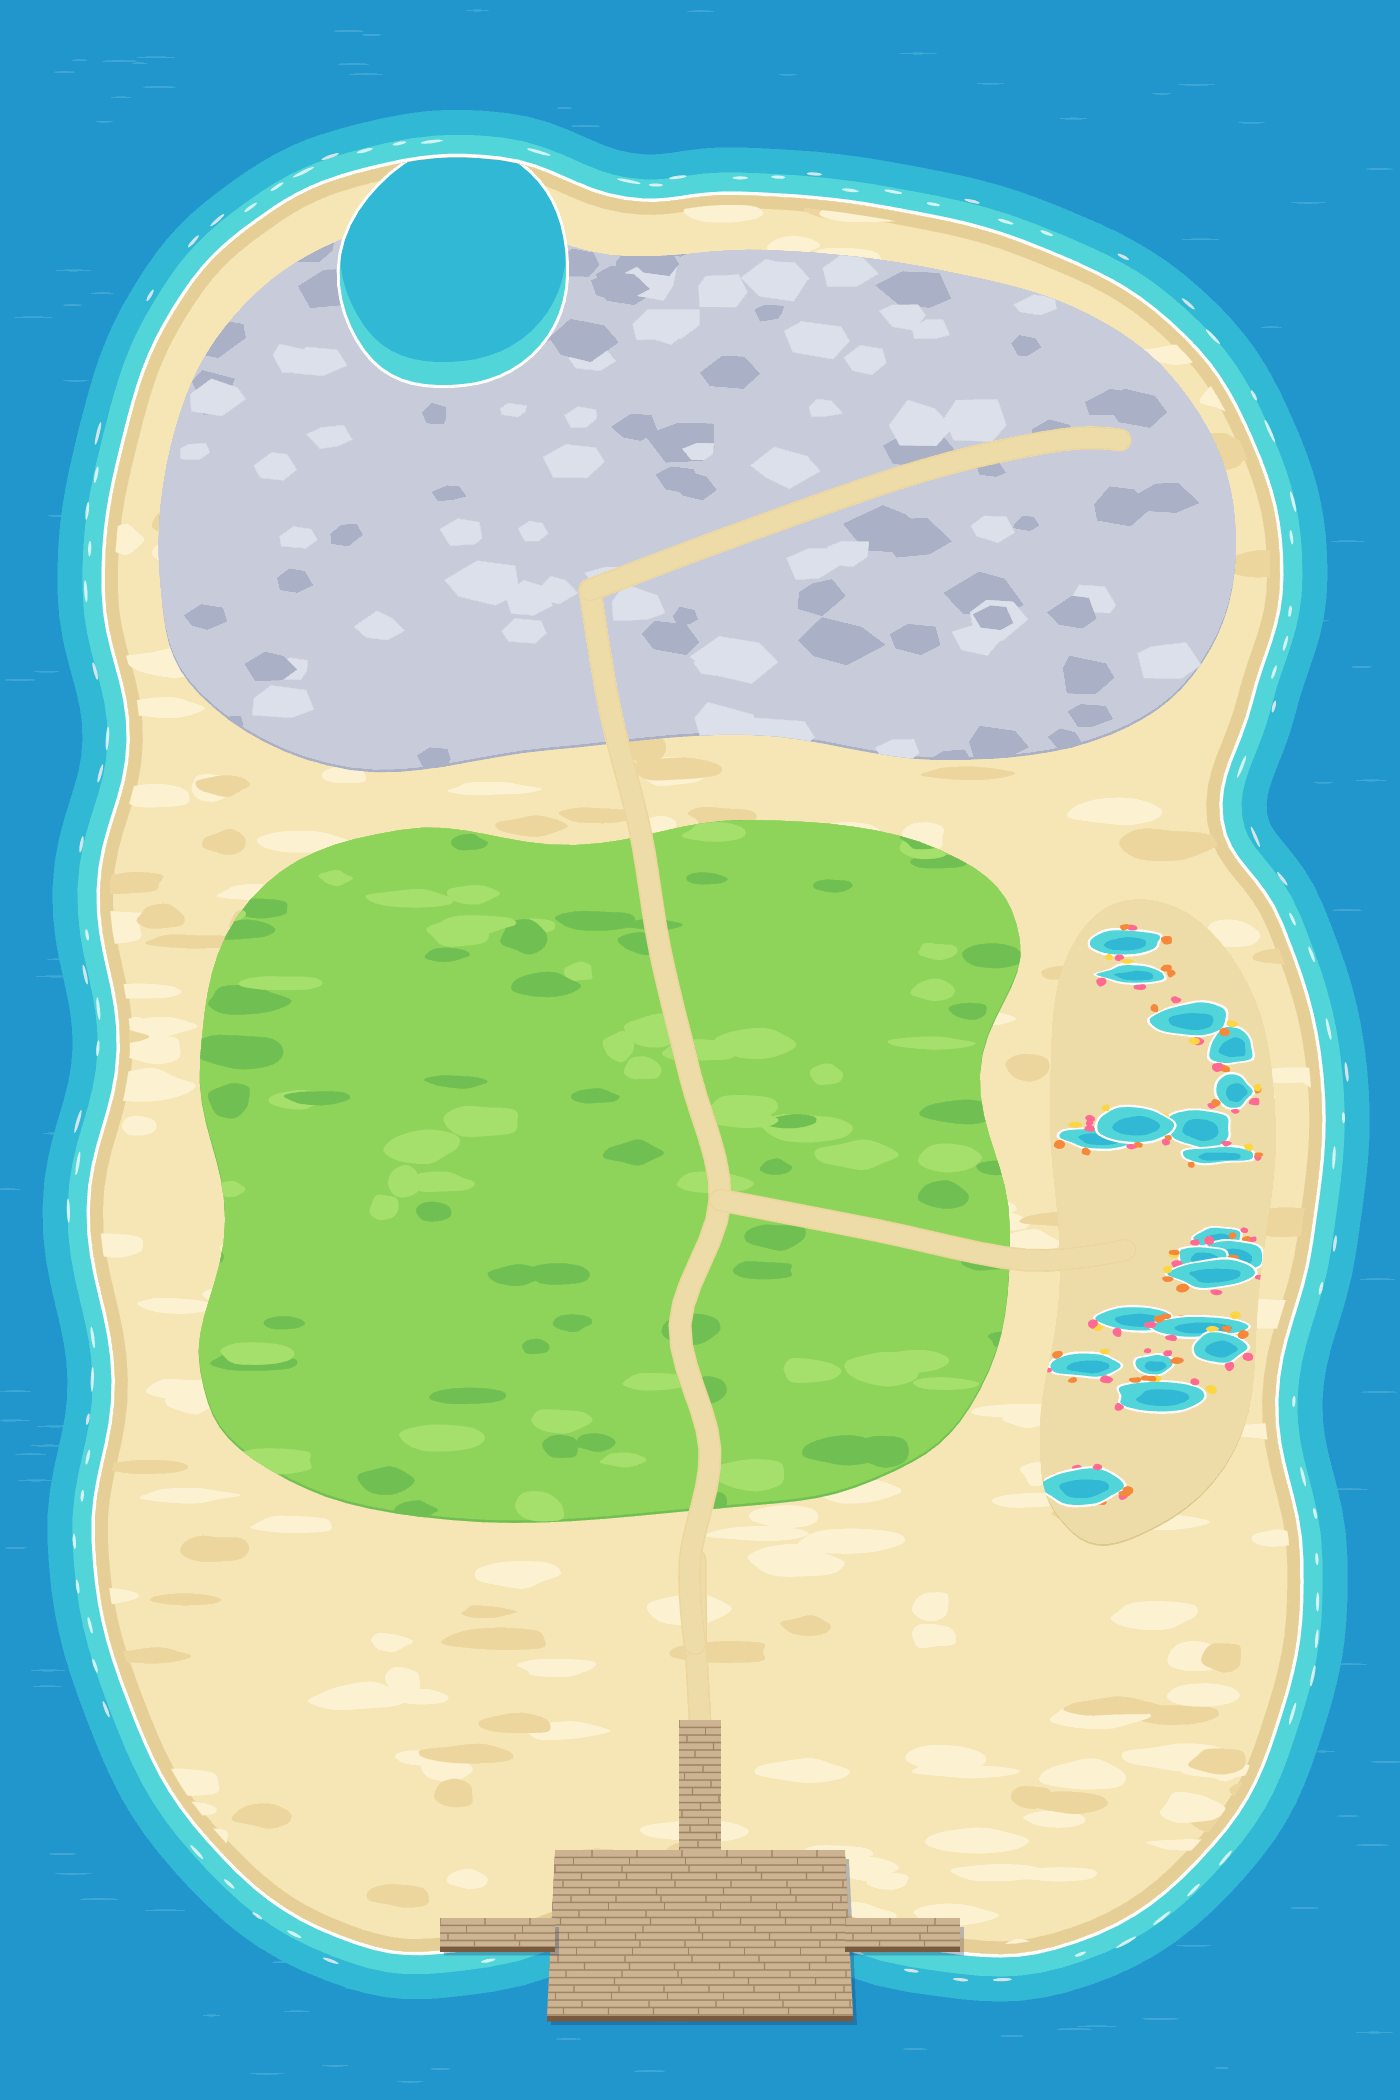
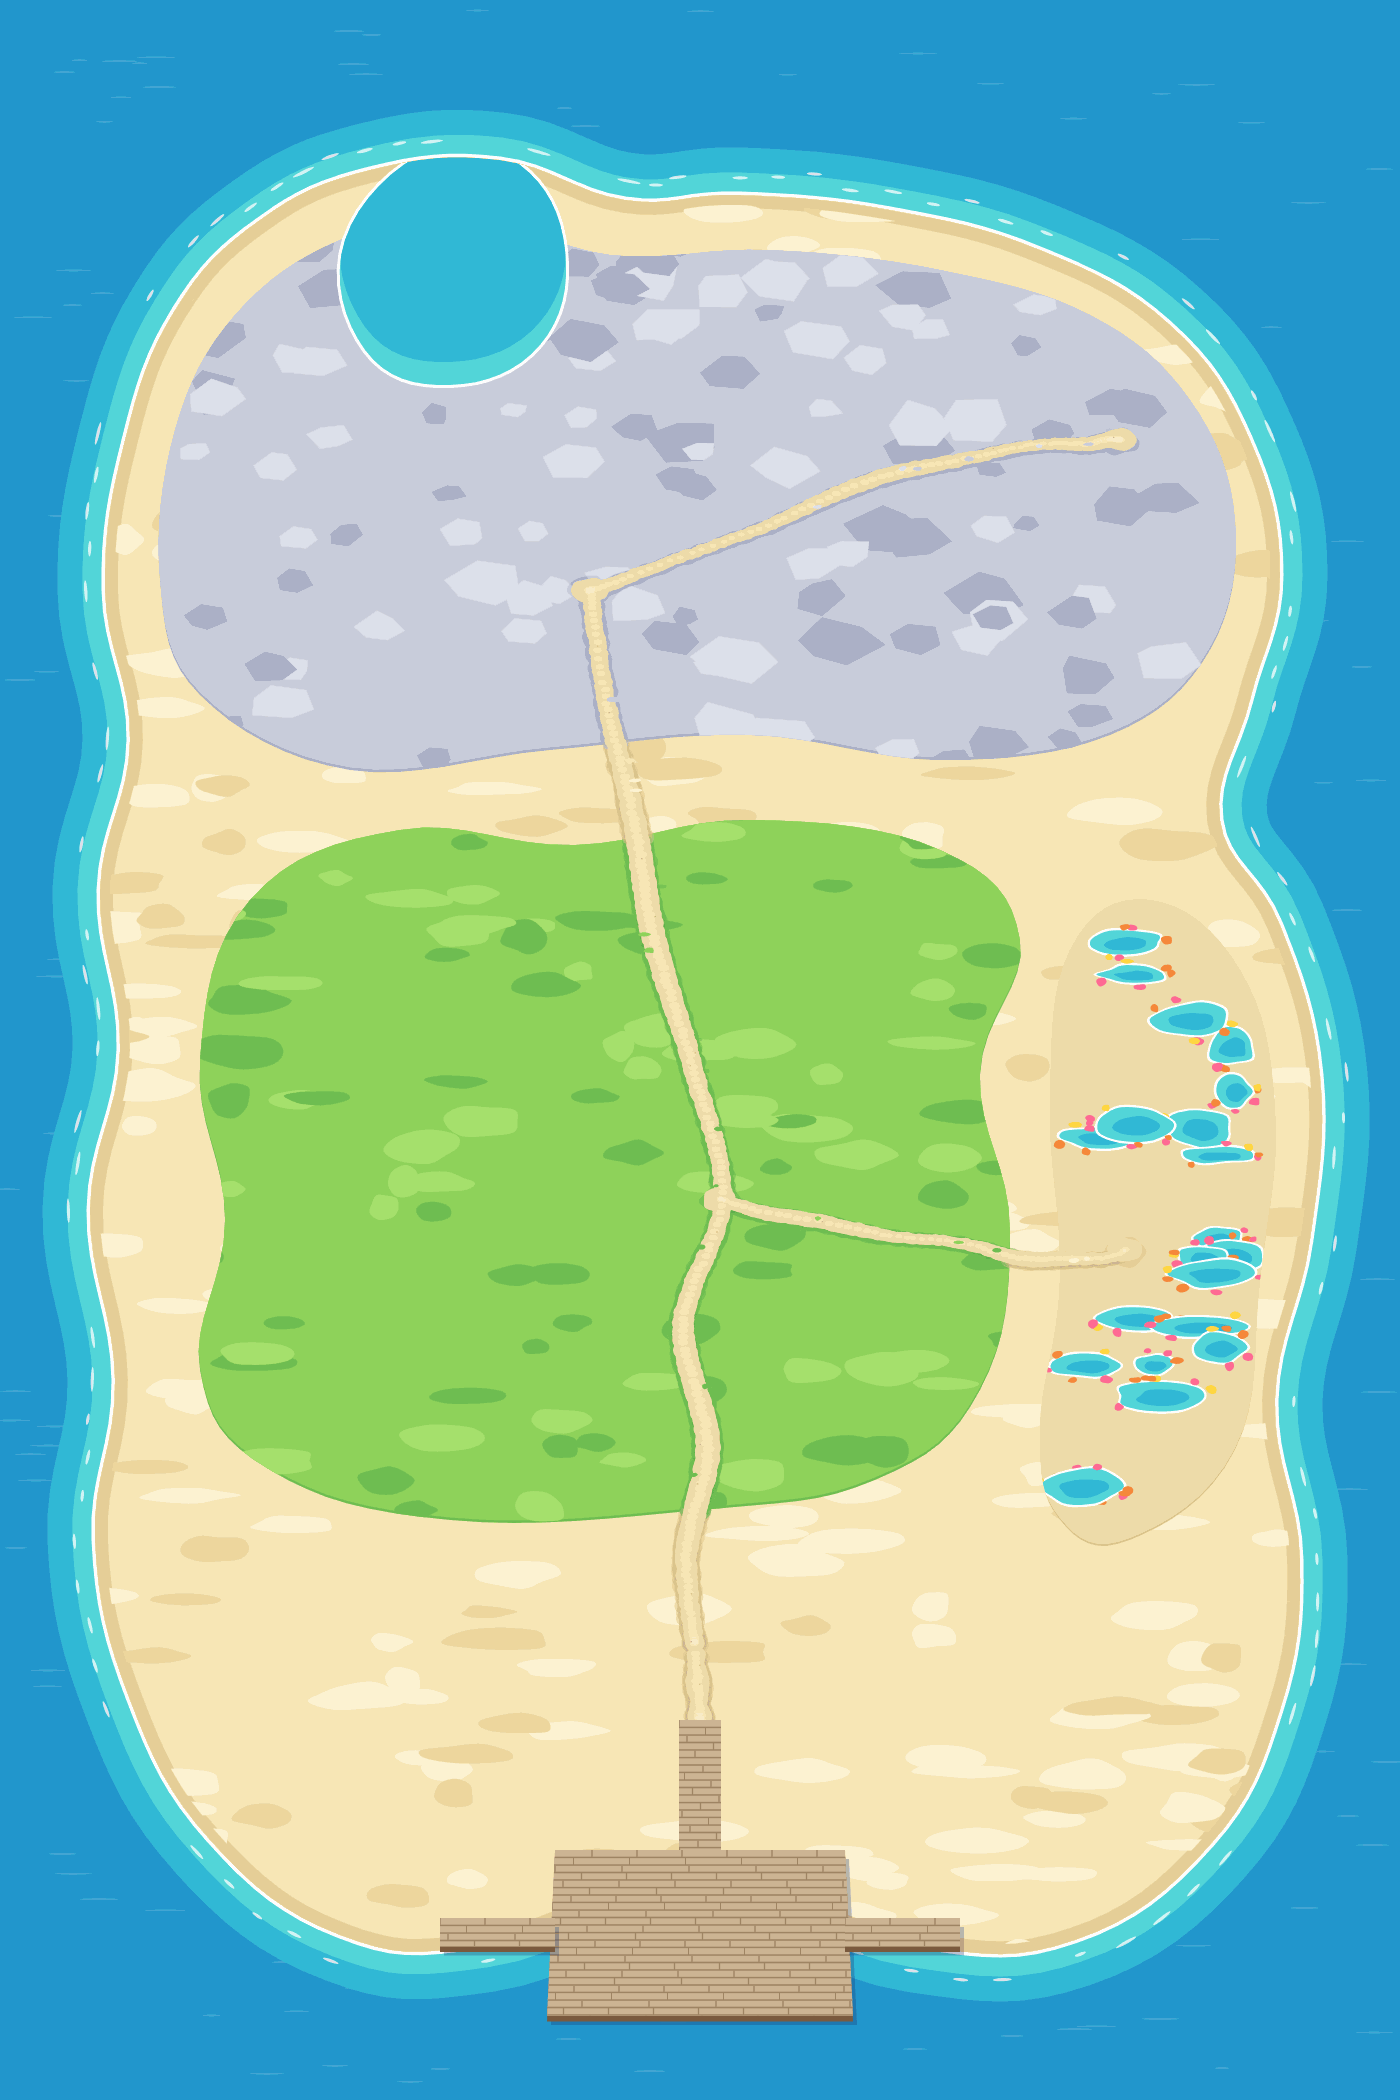
Art Director: Crab Cay's ways as trodden earth too (Leonard, AD)
Robin, 2026-11-21, asked whether Crab Cay's roads should be redone like the swamp's: "Yeah".
tools/isle.js lays the ways as close dabs that wander, no line round them, the ground creeping in,
a worn patch where they meet; the town's way and the island's are one track.
out/crab-cay: only ground.png changed, with the look pictures and look-ways.jpg (before and now).

diff --git a/Art Director/tools/isle.js b/Art Director/tools/isle.js
@@ -106,8 +106,28 @@ function paint(L) {
   if (L.inlet) { const ip = curve(L.inlet), il = poly(ip); ring(g, il, C.foam, 12); fill(g, il, C.shallow); g.save(); il(g); g.clip(); fill(g, poly(ip.map(([x, y]) => [x, y - 46])), C.sea); g.restore(); }
   if (T) { if (T.square) { const sp = curve(T.square, 0.5), sq = poly(sp), b = box(sp); fill(g, sq, C.cobbleLo); g.save(); sq(g); g.clip(); g.translate(0, -4); fill(g, sq, C.cobble); g.translate(0, 4);      // the town's square: cobbles, drawn a little heavier than at one pixel a unit so they hold
     g.strokeStyle = C.cobbleLo; g.lineWidth = 2.6; for (let y = b[1] - 20; y < b[1] + b[3] + 20; y += 22) for (let x = b[0] - 20 + (Math.round(y / 22) % 2) * 17; x < b[0] + b[2] + 20; x += 34) { g.beginPath(); g.ellipse(x + (r() - 0.5) * 5, y + (r() - 0.5) * 4, 12 + r() * 3, 7 + r() * 2, 0, 0, 7); g.stroke(); } g.restore(); }
-    for (const p of T.paths) { g.beginPath(); p.forEach((v, k) => k ? g.lineTo(v[0], v[1]) : g.moveTo(v[0], v[1])); g.lineJoin = 'round'; g.lineCap = 'round'; g.strokeStyle = C.sandLo; g.lineWidth = 46; g.stroke(); g.strokeStyle = C.path; g.lineWidth = 38; g.stroke(); } }
-  for (const p of L.paths || []) { const q = curve(p.concat(p.slice(1, -1).reverse()), 0.5, 6).slice(0, (p.length - 1) * 6 + 1); g.beginPath(); q.forEach((v, k) => k ? g.lineTo(v[0], v[1]) : g.moveTo(v[0], v[1])); g.lineJoin = 'round'; g.lineCap = 'round'; g.strokeStyle = C.sandLo; g.lineWidth = 46; g.stroke(); g.strokeStyle = C.path; g.lineWidth = 38; g.stroke(); }
+  }
+  // the ways: trodden earth, never a drawn road (Robin, 2026-11-20, of the swamp: "Looks good except the roads. They clip over each
+  // other and doesnt look natural"; of doing the same here, 2026-11-21: "Yeah"). As tools/mire.js lays them: close dabs that wander
+  // a little, wider on the main way, paler down the middle, a ragged rim with no line, the ground creeping in from the side, a worn
+  // patch where ways meet or end. The town's way and the island's are laid together in the same passes, so none lies on another.
+  { const wr = P.rng(L.seed + 7), gp = L.grass ? curve(L.grass) : null, rp = L.rock ? curve(L.rock, 0.55) : null, on = (x, y) => rp && inside(rp, x, y) ? 'rock' : gp && inside(gp, x, y) ? 'grass' : 'sand';
+    const RIM = { sand: '#d9bf86', grass: '#5fae4c', rock: C.rockLo }, CREEP = { sand: [C.sand, C.sandHi], grass: [C.grass, C.grassLo], rock: [C.rock, C.rockHi] };
+    const all = (T ? T.paths.map(p => [p, 20, 0]) : []).concat((L.paths || []).map((p, n) => [p, n === 0 ? 21 : 16, 1]));
+    const starts = (L.paths || []).map(p => p[0]), townPts = T ? T.paths.flat() : [];
+    const ways = all.map(([p, wide, bend]) => { const q = p.length < 3 ? [...Array(41)].map((_, k) => [p[0][0] + (p[1][0] - p[0][0]) * k / 40, p[0][1] + (p[1][1] - p[0][1]) * k / 40]) : curve(p.concat(p.slice(1, -1).reverse()), 0.5, 40).slice(0, (p.length - 1) * 40 + 1), ph = wr() * 6.283, out = [];
+      if (!bend) { const k = q.findIndex(v => starts.some(e => Math.hypot(e[0] - v[0], e[1] - v[1]) < 24)); if (k > 0) q.length = k + 1; }      // the town's way stops where the island's takes over: one track, not two
+      for (let k = 0; k < q.length; k++) { const t = k / (q.length - 1), a = q[Math.max(0, k - 1)], b = q[Math.min(q.length - 1, k + 1)], dx = b[0] - a[0], dy = b[1] - a[1], d = Math.hypot(dx, dy) || 1, end = Math.min(1, Math.min(t, 1 - t) * 6), off = bend * (Math.sin(t * 9 + ph) * 9 + Math.sin(t * 23 + ph * 2) * 4) * end;      // it wanders, but not where it meets the deck or another way
+        out.push([q[k][0] - dy / d * off, q[k][1] + dx / d * off, wide * (1 + 0.16 * Math.sin(t * 13 + ph * 3))]); }
+      return out; });
+    const aprons = []; for (const p of L.paths || []) for (const e of [p[0], p[p.length - 1]]) if (!aprons.some(a => Math.hypot(a[0] - e[0], a[1] - e[1]) < 40) && !townPts.some(a => Math.hypot(a[0] - e[0], a[1] - e[1]) < 60)) aprons.push([e[0], e[1], 30 + wr() * 8]);
+    const dab = (x, y, rx, ry, col, al = 1) => { g.globalAlpha = al; g.fillStyle = col; g.beginPath(); g.ellipse(x, y, rx, ry, 0, 0, 7); g.fill(); g.globalAlpha = 1; };
+    for (const w of ways) for (const [x, y, r0] of w) { const c = RIM[on(x, y)]; dab(x + (wr() - 0.5) * 5, y + 3 + (wr() - 0.5) * 4, r0 + 5 + wr() * 4, (r0 + 5) * 0.8, c, 0.5); if (wr() < 0.07) dab(x + (wr() - 0.5) * (r0 * 2.6), y + (wr() - 0.5) * (r0 * 2), 5 + wr() * 6, 3 + wr() * 3, c, 0.45); }      // the rim: darker, ragged, with stray patches
+    for (const [x, y, r0] of aprons) { g.globalAlpha = 0.5; fill(g, blob(x, y + 3, r0 + 6, (r0 + 6) * 0.72, 10, 0.3, wr), RIM[on(x, y)]); g.globalAlpha = 1; }
+    for (const w of ways) for (const [x, y, r0] of w) dab(x + (wr() - 0.5) * 4, y + (wr() - 0.5) * 3, r0, r0 * 0.8, C.path);      // the earth
+    for (const [x, y, r0] of aprons) fill(g, blob(x, y, r0, r0 * 0.72, 10, 0.3, wr), C.path);
+    for (const w of ways) for (let k = 0; k < w.length; k += 2) { const [x, y, r0] = w[k]; dab(x + (wr() - 0.5) * 5, y - 1 + (wr() - 0.5) * 3, r0 * 0.5, r0 * 0.32, '#fbeccb', 0.35); }      // paler down the middle, where the feet fall
+    for (const w of ways) for (const [x, y, r0] of w) { const cc = CREEP[on(x, y)]; if (wr() < 0.045) fill(g, blob(x + (wr() < 0.5 ? -1 : 1) * r0 * (0.7 + wr() * 0.4), y + (wr() - 0.5) * 8, 6 + wr() * 7, 3 + wr() * 3, 7, 0.4, wr), cc[wr() < 0.5 ? 0 : 1]); if (wr() < 0.03) dab(x + (wr() - 0.5) * r0 * 1.4, y + (wr() - 0.5) * r0, 1.8, 1.3, '#c9ad74', 0.8); } }      // the ground creeping in from the side, a pebble
   if (T) for (const d of T.decks) if (!d.sea) deck(g, d);
   g.restore();
   if (T) for (const d of T.decks) if (d.sea) deck(g, d);      // a deck over the water is painted last: it lies on the sea and on the shore alike

diff --git a/Art Director/docs/log.md b/Art Director/docs/log.md
@@ -48,3 +48,4 @@ when they matter), what was made and where (`out\<name>\`, the tool), what is wa
 - 2026-11-20: Victor, GD: the three follow-ups are in the game and live (his 58f7d6f): zones read by name, the piglet's gallop on its rush, the chart with both islands, pins and the dotted way. The toad stands outside 0.08 to 0.38 s of its 0.48 s hop and travels only between, 1.6 times faster: checked against the atlas, frame 1 is 0 to 80 ms, frames 2 to 5 are 80 to 380, frame 6 is 380 to 480, so his numbers fall on the frames. Crab Cay's budget is 60 MB now (his, in art-demands.md); my count is 58.5. Nothing more asked; the swamp's landmark waits for Robin's word on its look. Leonard, AD.
 - 2026-11-20: Robin, in my chat, of the swamp: "Looks good except the roads. They clip over each other and doesnt look natural. I think you can get a lot of inapiration from my survival game project". Read the Survival game's village ways (C:/dev/SG/Game Developer/src/village.js: ways as dabs that wander, wider where more feet go, joining on shared ground, a worn apron where they end; nothing copied). tools/mire.js now lays every way in three passes together (rims, earth, pale middles) as close dabs with a wander, moss creeping in and a worn patch at each end; the first try had the dabs too far apart and read as beads. out/mire-cay delivered a third time: only ground.png changed. Crab Cay's ways are still drawn the old way. Leonard, AD.
 - 2026-11-20: Victor, GD: the repainted ways are in the game (his 07df861); go on with the landmark. Made it: blender/swamp.py has `idol` (a great stone toad on a plinth, mossy, its eyes the glowing toadstools' colour) and three pillars; tools/mire.js stands the toad north of the ruin's pool with eight pillars round the pool and keeps reeds and clumps off them. The first toad was the Warrior's size and hidden by reeds: made 1.6 times bigger, the reeds cleared. out/mire-cay a fourth time: the atlas (32 props, 1024 by 810) and place.json. Leonard, AD.
+- 2026-11-21: Robin, in my chat, asked "shall I redo Crab Cay's roads as trodden earth too?": "Yeah". tools/isle.js now lays the ways as tools/mire.js does (rims, earth, pale middles, all ways together), with the rim and the creeping-in taken from the ground the way crosses (sand, grass, rock). The first try had the town's way and the island's lying on each other for 170 units, a doubled lumpy track: the town's way now stops where the island's takes over. out/crab-cay: only ground.png changed (93 KB), with look.jpg, look-map.jpg and the new look-ways.jpg. Not looked at in the game itself, only in tools/scene.js. Leonard, AD.

diff --git a/Art Director/out/crab-cay/NOTES.md b/Art Director/out/crab-cay/NOTES.md
@@ -23,6 +23,14 @@ them. Theres also no contrast to the floor so it all kinda melts together." Of t
   level 1 on the beach, `wharf-rat` at 2 on the tide flats, `bristle-piglet` at 3 and `palm-monkey` at 4 in the grove,
   `coconut-crab` at 5 in the cove. The boxes are the ones there were; `reef-gull` is gone.
 
+**The ways, 2026-11-21.** Robin said of the swamp's roads "They clip over each other and doesnt look natural"; asked
+whether Crab Cay's should be redone the same way, he said "Yeah". They were drawn roads with a line round them. Now
+they are trodden earth, as on Mire Cay: close dabs that wander a little, paler down the middle, a ragged rim with no
+line, the grass, sand or rock creeping in, a worn patch where ways meet or end. The town's way and the island's are
+one track. **Only `ground.png` changed** (93 KB) and the look pictures; `look-ways.jpg` is three spots before and
+now. `paths` in `place.json` is the same list and the ways still run through its points, wandering up to 13 units
+to either side between them.
+
 ## The numbers
 
 | File | What | Size | Decoded | On disk |

diff --git a/Art Director/docs/direction.md b/Art Director/docs/direction.md
@@ -57,7 +57,7 @@ big, has several grounds with their own levels and monsters, and is walked witho
   dabs of bare ground laid close, wandering a little, wider where more feet go, paler down the middle, a ragged rim
   and no line round it, the green creeping in. Ways join and share one ground; where several meet there is a worn
   patch. All the ways of a place are painted together, rims first, so none lies on another. Crab Cay's ways are
-  still the old drawn kind.
+  painted the same way (Robin, 2026-11-21, asked whether to redo them: "Yeah").
 - **The first one is Crab Cay, the starter island** (`out\crab-cay\`). Robin, 2026-11-20: "Make the starter island a
   pirate town, and the other part of the island beginner friendly with low level mobs." So the town stands at the
   landing as its safe part (`home`), and round it lie the beach with its tide flats, the grove and the cove.
